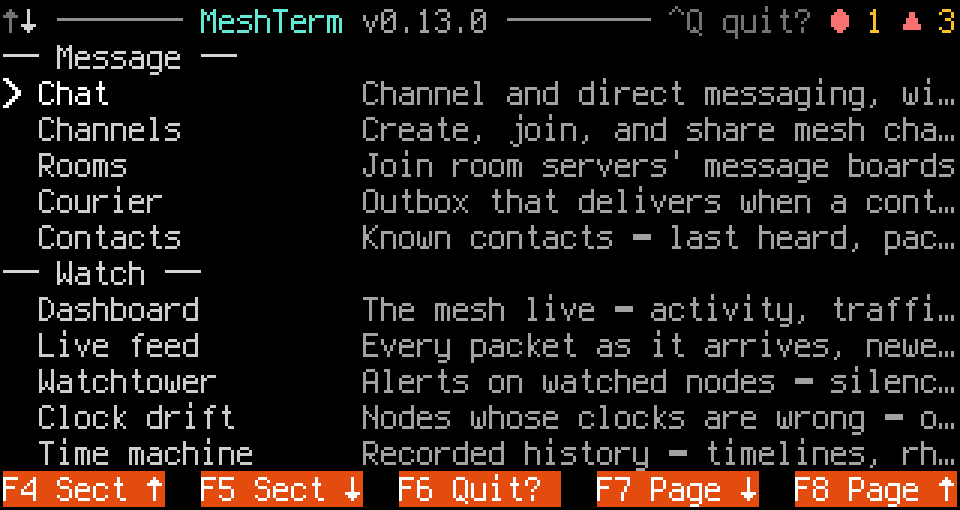
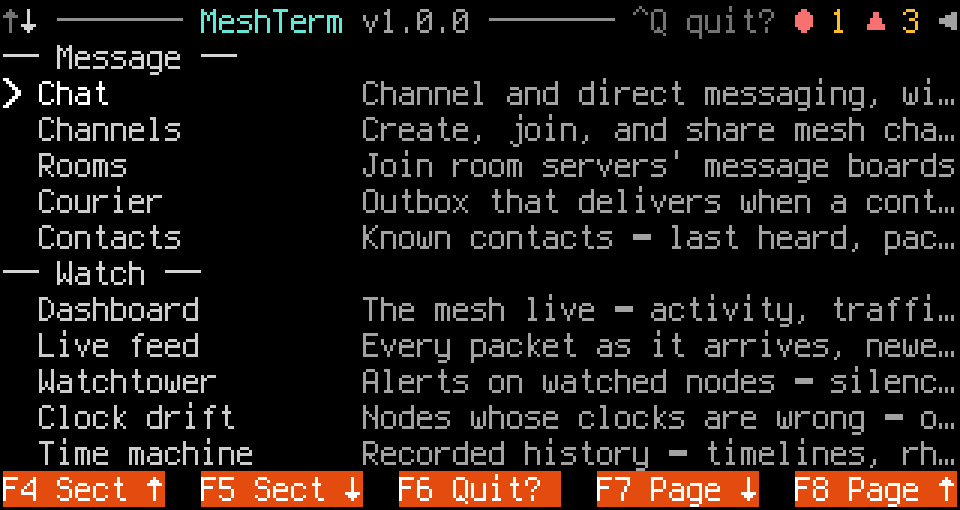
MeshTerm 1.0.0

Changed region(s): [[0.6562, 0.0, 1.0, 0.0882], [0.375, 0.0, 0.5312, 0.0588]]

diff --git a/meshterm/__init__.py b/meshterm/__init__.py
@@ -6,7 +6,7 @@ Connects to a companion over USB, Bluetooth, or TCP. For Windows, macOS, and Lin
 
 from datetime import datetime
 
-__version__ = "0.13.0"
+__version__ = "1.0.0"
 __author__ = "Jean-Pierre Martineau"
 
 #: The year when MeshTerm was first published. The copyright span starts in this year.

diff --git a/CHANGELOG.md b/CHANGELOG.md
@@ -3,11 +3,22 @@
 This page lists the notable changes to MeshTerm. The newest version is first.
 
 The format follows [Keep a Changelog](https://keepachangelog.com/en/1.1.0/). The
-version numbers follow [Semantic Versioning](https://semver.org/spec/v2.0.0.html). One
-rule of SemVer applies to a leading zero: while the major version is `0`, a **minor** bump
-can change how things behave. It does not only add new things.
+version numbers follow [Semantic Versioning](https://semver.org/spec/v2.0.0.html). The
+releases below 1.0.0 used one more rule: while the major version is `0`, a **minor** bump
+can change how things behave. From 1.0.0, a change that breaks the command line, the
+`--json` answers, the configuration keys, or the preference names waits for the next major
+version.
 
 ## [Unreleased]
+
+## [1.0.0] - 2026-11-23
+
+**MeshTerm reaches 1.0.** The command line, its `--json` answers, the configuration keys,
+and the preference names are promises from now on. A change that breaks one of them waits
+for 2.0. This release also gives MeshTerm sounds for the messages that you want to know
+about, a device page that reports everything the companion knows, the neighbours that a
+repeater hears, a relay mark on each channel message that you send, and the older LoRa Cap
+of the Cardputer Zero.
 
 ### Added
 
@@ -56,12 +67,49 @@ can change how things behave. It does not only add new things.
   PicoCalc has no sound, so there each notification flashes. The idea came from the
   MeshTerm Discord.
 
+- **MeshTerm drives the older LoRa Cap of the Cardputer Zero.** M5Stack made two LoRa
+  Caps. The newer Cap LoRa-1262 has an antenna switch, and a small chip that turns the
+  switch on. The older Cap LoRa868 has the same SX1262 radio on the same pins, and no such
+  chip, because it has no switch. MeshTerm asked for that chip on every Cardputer Zero, so
+  an owner of the older Cap read "nothing answers at 0x43 on /dev/i2c-1" and could not
+  connect at all. Now MeshTerm looks for the chip, and where none answers it asks the radio
+  what it is. An SX1262 that gives its name is the older Cap. The device screen calls the
+  row **Cap LoRa** before you connect, because nothing can know which Cap is attached until
+  the node runs, and after that it names the Cap that answered. A Cardputer Zero with no Cap
+  at all still says that no radio answered. Found on the MeshTerm Discord.
+- **A repeater's admin page lists the neighbours that it hears.** A repeater keeps a table
+  of the nodes that it receives directly. Until now the only way to that table was three
+  steps into the trace path composer, and the answer dissolved into the evidence of a route.
+  The admin page has a **Neighbours** row, and the list it opens is a full screen with the
+  lanes, the sort, and the type-to-filter of the Contacts list. Two of its lanes belong to
+  the remote node: SNR is what that node measured, and HEARD is how long ago that node
+  received from the neighbour. Enter opens the node page of a neighbour, also one that
+  nothing can name, which then shows what the stored history knows about a node that your
+  own radio never heard.
+- **A radio with no channel gets the standard Public channel at startup.** A radio that
+  arrives with no channel cannot send anywhere, because each send needs a slot. The empty
+  Chat picker read as "nobody is here". MeshTerm now writes the Public channel that MeshCore
+  itself ships, on slot 0, and says so on the splash. The new *Public on empty device*
+  preference (`public_on_empty_device`) turns it off.
+
 ### Changed
 
 - **Ctrl+E shows or hides the pairing PIN.** It was Ctrl+S, which now mutes the sounds.
 
 ### Fixed
 
+- **A filter never hides what a page does.** Find-as-you-type searches the data of a list:
+  the contacts, the settings, the channel slots, the queued messages, the records. A row
+  that acts on the page is not data. A typed query used to take the Apply and Back pair of
+  an editor, the Actions sections of Device config and of the repeater admin, the Add rows
+  of Channels and Outbound paths, the archive rows of the Contacts list, and the actions of
+  eight other pages. Apply has no key of its own, so a filter that hid it left it reachable
+  only by an Esc that nothing on the screen named. Those rows now stay while you type.
+- **The name "Public" no longer makes a channel that nobody hears.** `#Public` is not the
+  standard Public channel. Its key comes from its name, so its hash is different and no
+  other node is on it. The two add rows sit side by side, and Public is the obvious word to
+  type into "Public channel name:". The name now asks again and offers the standard channel,
+  without refusing the name.
 - **Two channel messages with the same text no longer share their copies.** The paths
   dialog matched a copy of your channel message by its text in a window of 15 minutes. Two
   "test" messages a few minutes apart then showed the copies of both. Now a copy of your
@@ -971,7 +1019,8 @@ commands.
 MeshTerm is free and open source, under the Apache 2.0 licence. The licence does not cover
 the name and the logo (refer to `NOTICE`). A fork is welcome under its own name.
 
-[Unreleased]: https://github.com/jpmartineau/MeshTerm/compare/v0.13.0...HEAD
+[Unreleased]: https://github.com/jpmartineau/MeshTerm/compare/v1.0.0...HEAD
+[1.0.0]: https://github.com/jpmartineau/MeshTerm/releases/tag/v1.0.0
 [0.13.0]: https://github.com/jpmartineau/MeshTerm/releases/tag/v0.13.0
 [0.12.0]: https://github.com/jpmartineau/MeshTerm/releases/tag/v0.12.0
 [0.11.5]: https://github.com/jpmartineau/MeshTerm/releases/tag/v0.11.5

diff --git a/docs/cli/README.md b/docs/cli/README.md
@@ -2092,7 +2092,7 @@ code beside each link. The scripted face prints only the link.
 **`--json`:**
 
 ```json
-{"page":"discord","title":"Join Discord","version":"0.13.0","text":"Join the Discord\n  Questions, ideas, bug reports, and mesh talk.\n\n  • https://discord.gg/AZwe5Uvb3S","links":["https://discord.gg/AZwe5Uvb3S"]}
+{"page":"discord","title":"Join Discord","version":"1.0.0","text":"Join the Discord\n  Questions, ideas, bug reports, and mesh talk.\n\n  • https://discord.gg/AZwe5Uvb3S","links":["https://discord.gg/AZwe5Uvb3S"]}
 ```
 
 | Field | Type | Meaning |

diff --git a/README.md b/README.md
@@ -27,7 +27,7 @@ run MeshTerm, the more the history of your mesh is worth.
 > change something, first say hello on [Discord](https://discord.gg/AZwe5Uvb3S).
 > [Read more about how the project is run](#how-this-project-is-run).
 
-https://github.com/user-attachments/assets/a4ce1ef1-5c6b-41c3-b629-0514dc617ef3
+https://github.com/user-attachments/assets/4f918f68-6302-43c8-8d44-df8ad29b5bd3
 
 <p align="center"><sub>A video of less than two minutes, in the demo mesh over Montréal (<code>meshterm --demo</code>).</sub></p>
 
